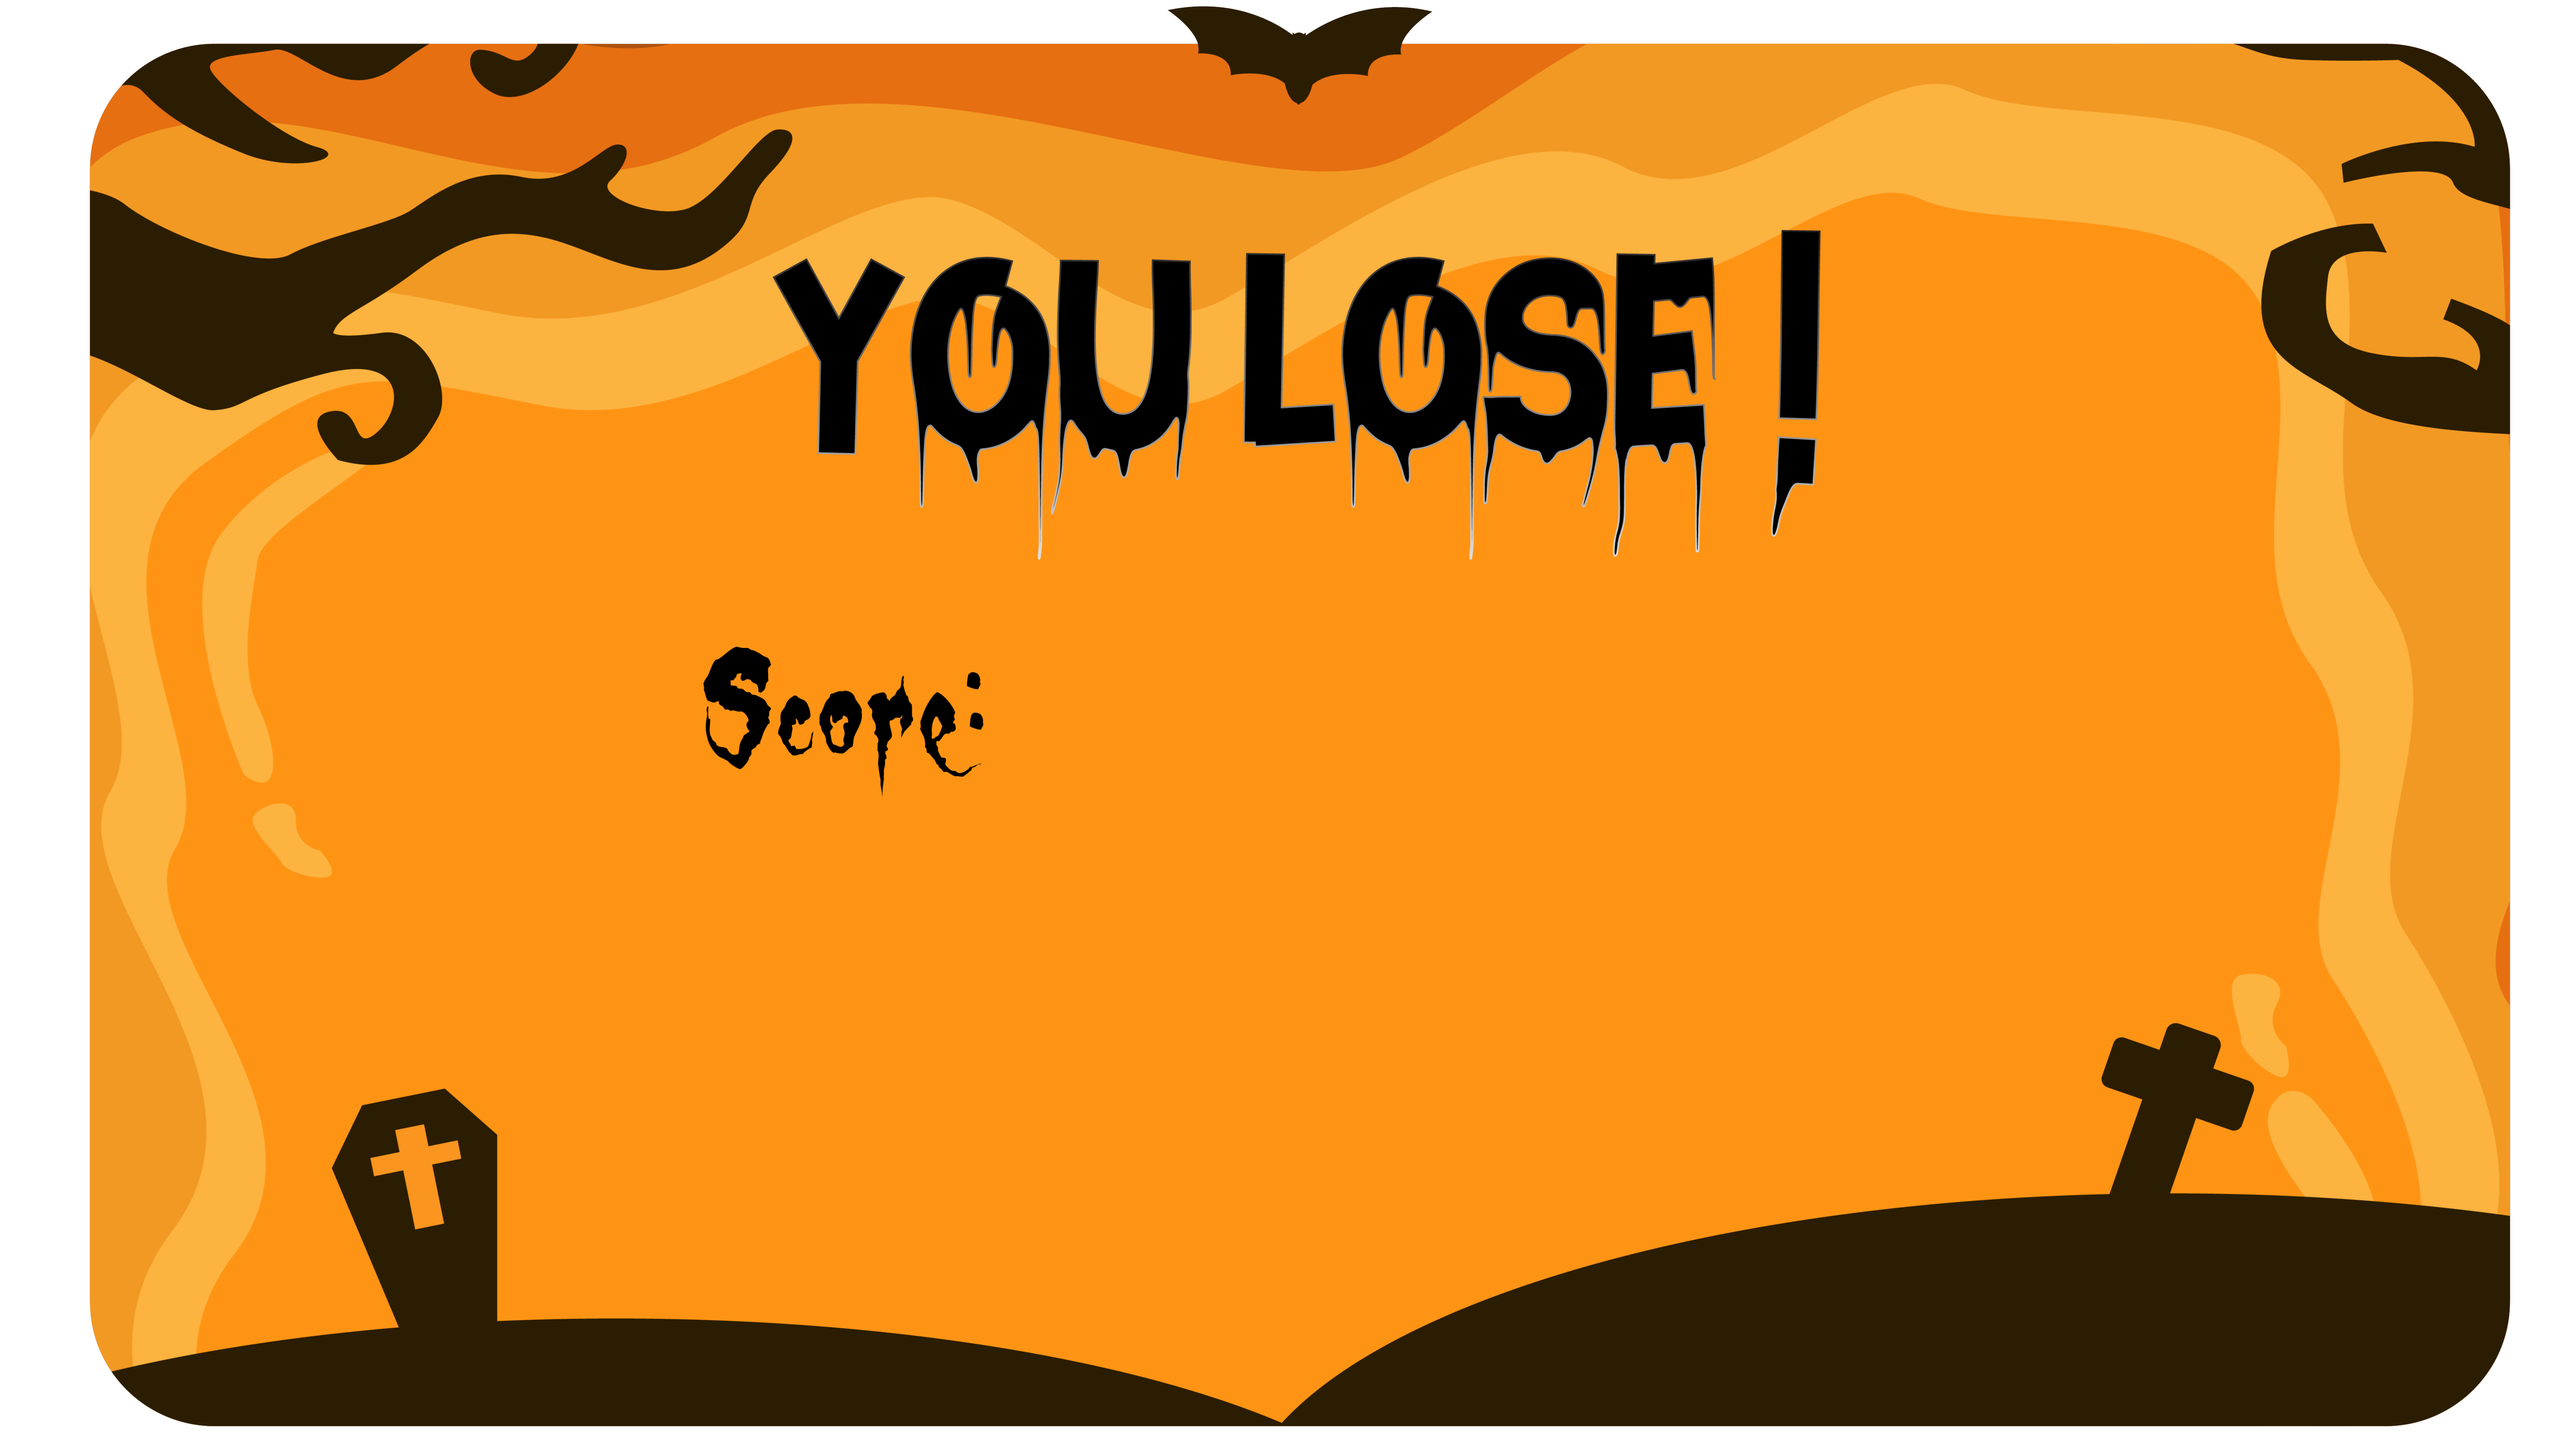
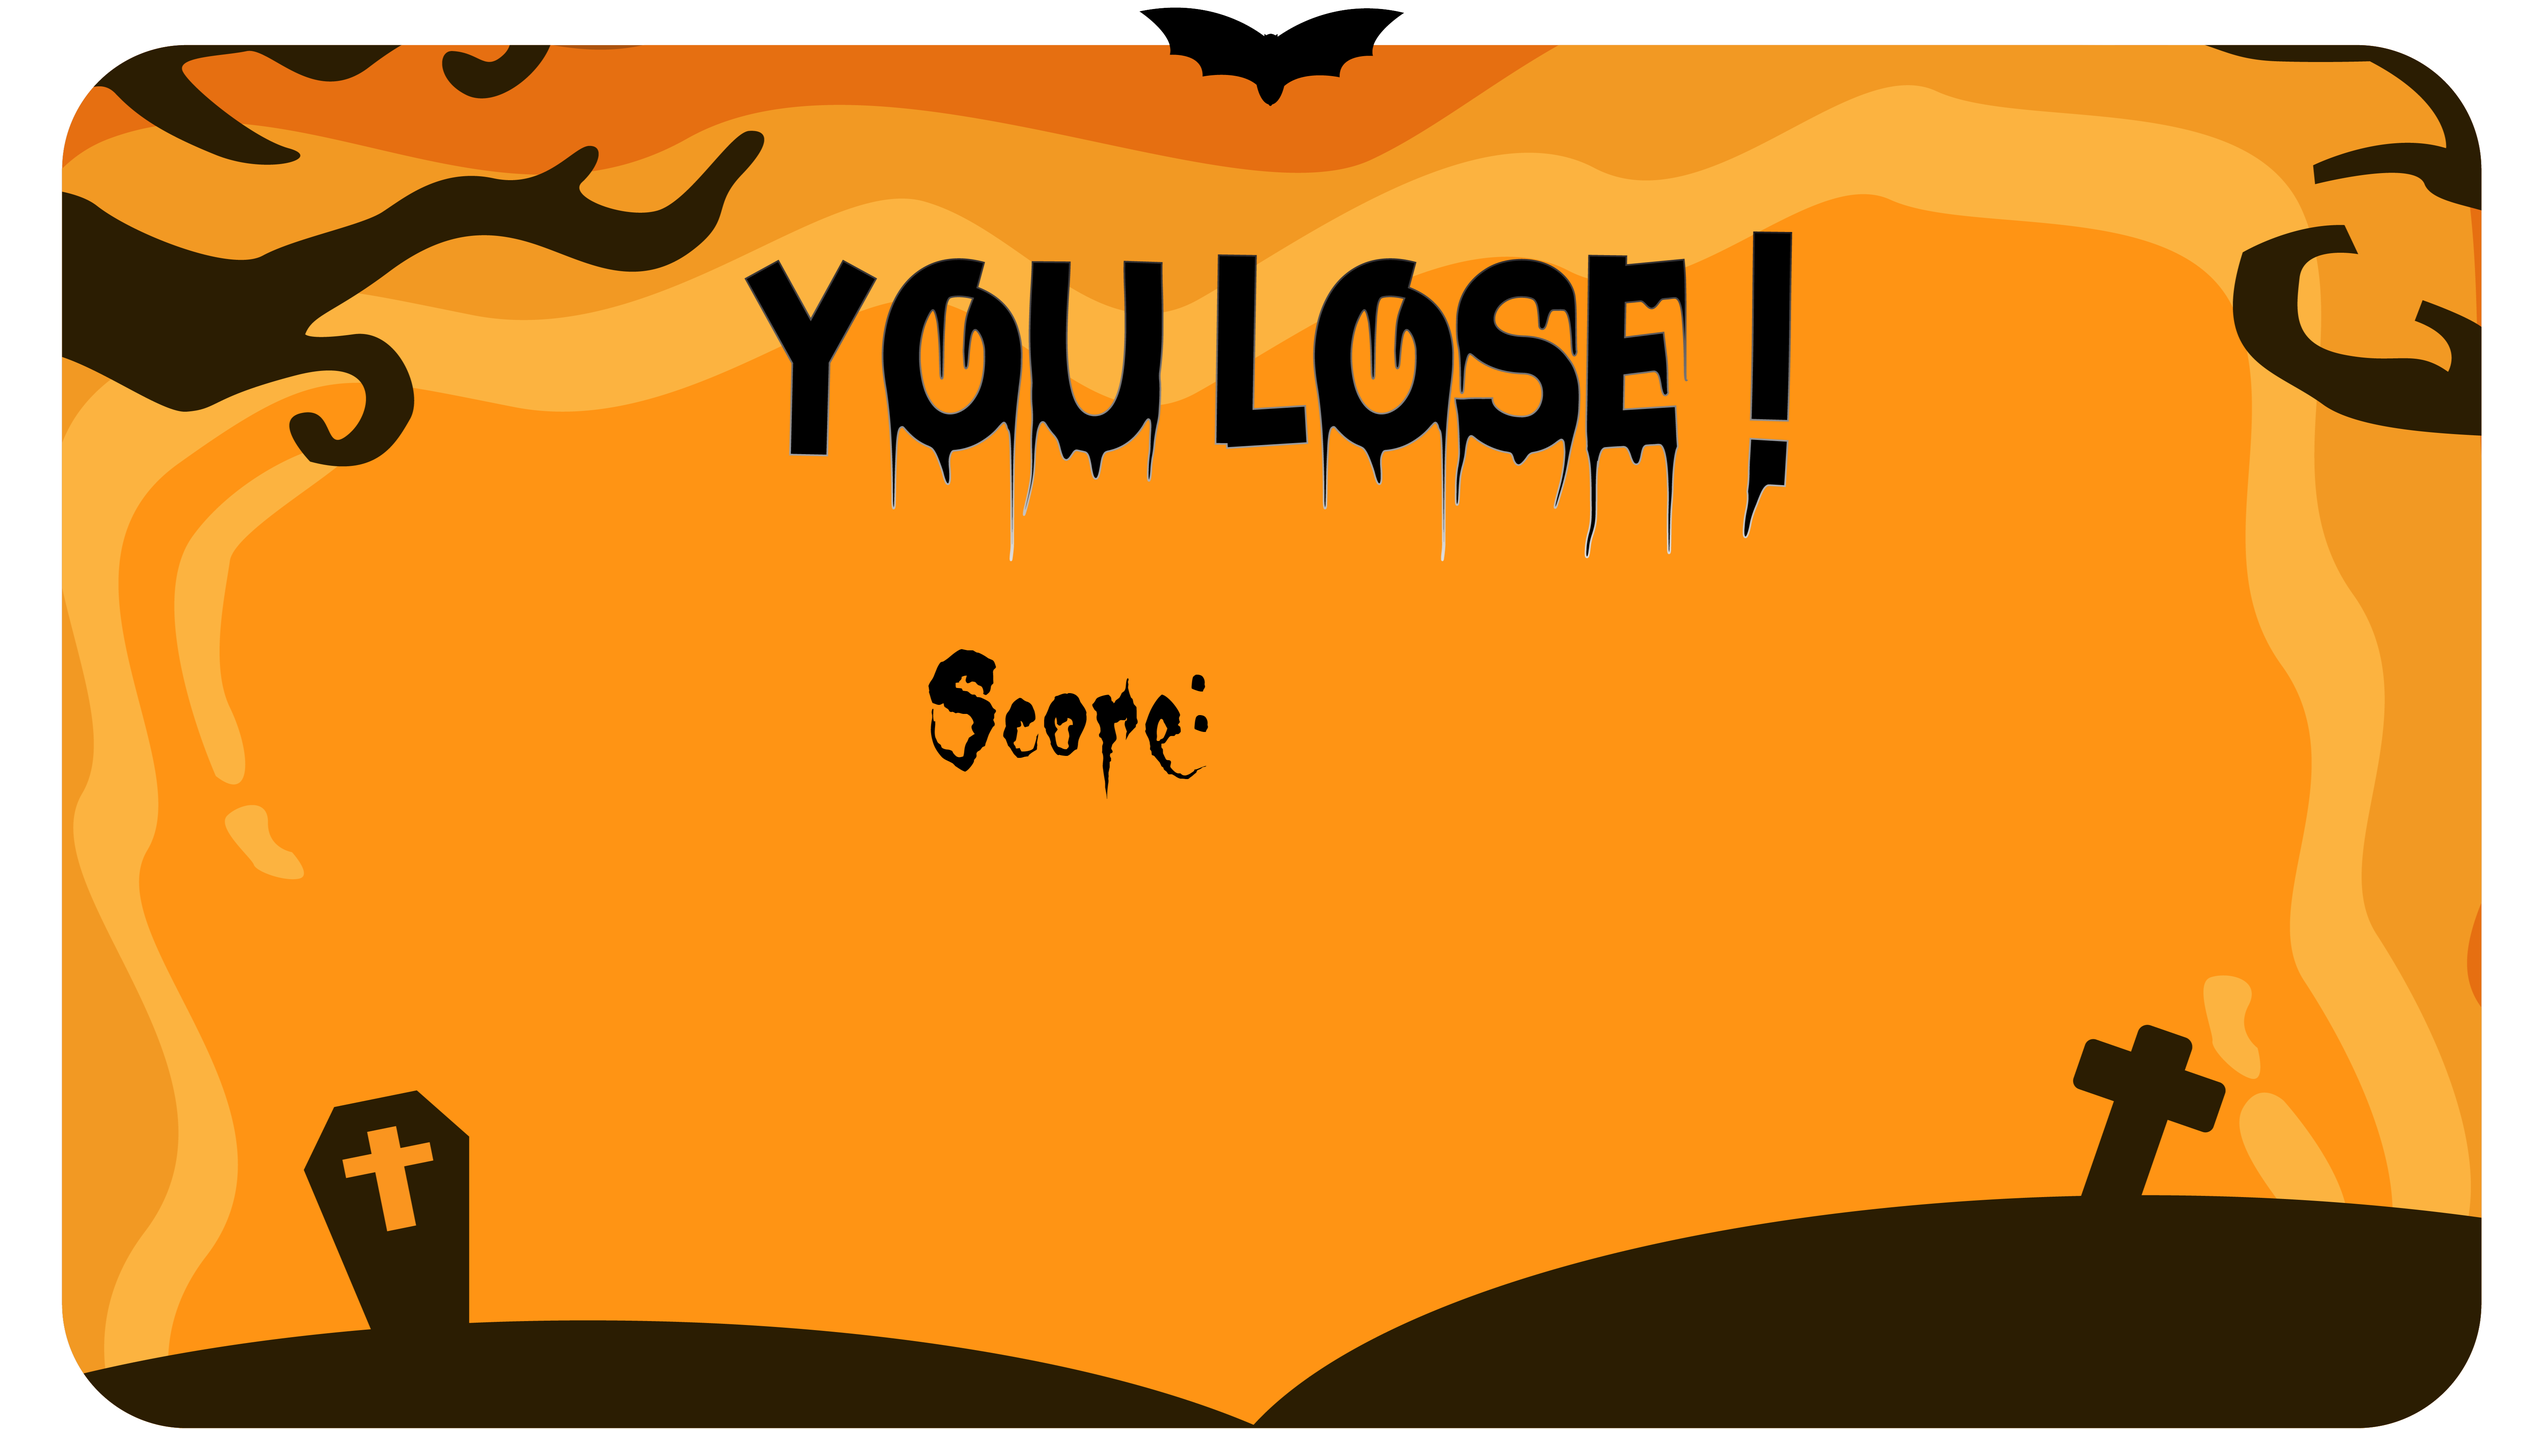
end screen

diff --git a/game.js b/game.js
@@ -8,14 +8,16 @@ import { quantity_ghost } from './quantity_ghost.js';
 import * as land_ from './land.js';
 import * as vatpham_ from './vatpham.js'
 import { music } from './music.js';
-document.addEventListener('DOMContentLoaded', async function () {
+import { end_screen } from './end_screen.js';
+window.loadContent = async function() {
   let landSet = [], ghosts = [], oldghosts = [], vatpham = [], movementSpeed = 0.03, flag = 1, disappearTime, ghostspecialActive = false, speed_j=0.06;
   let timing = 0; let specialTimeout; let ghostfall = false;
   const boostedSpeed = 0.1; // Temporary speed boost
   let isBoosted = false;
   let animationFrameId;
   let isgameover = false;
-  async function start_game() {
+  window.start_game = async function () {
+    //process_score(scene);
     landSet = land_.land_random(scene,-2)
     let inghost = await load_ghost(scene, -2.0, -0.82, -0.2);
     ghosts.push(inghost);
@@ -30,8 +32,10 @@ document.addEventListener('DOMContentLoaded', async function () {
     //vatpham = await vatpham_.load_vatpham_random(scene,landSet);
     
     async function update() {
-      if (isgameover) 
-          return;
+      if (isgameover) {
+        end_screen();
+        return;
+      }
 
       renderer.render(scene, camera);
       if (landSet[landSet.length-1].position.x < 8)
@@ -581,29 +585,13 @@ document.addEventListener('DOMContentLoaded', async function () {
   });
 
   const container = document.querySelector('.background-container');
-  const buttonStart = document.querySelector('.button01, .reload');
+  const buttonStart = document.querySelector('.button01');
   const buttonInstruction = document.querySelector('.button02');
   const closeInstructionButton = document.getElementById('close-instruction');
   const buttonMusic = document.querySelector('.button03');
   const turnoffMusic = document.getElementById('turn-off-music');
-  const buttonHome = document.getElementById('home');
-  const buttonReload = document.getElementById('reload');
 
   buttonStart.addEventListener('click', async function () {
-    console.log("Button Start clicked!");
-    container.parentNode.removeChild(container);
-    try {
-      sound.pause();
-      await start_game();
-      console.log("Game started!");
-    } catch (error) {
-      console.error("Error:", error);
-    }
-    process_score(scene);
-    music(scene, camera);
-  });
-
-  buttonReload.addEventListener('click', async function () {
     console.log("Button Start clicked!");
     container.parentNode.removeChild(container);
     try {
@@ -632,17 +620,11 @@ document.addEventListener('DOMContentLoaded', async function () {
     const imageMusic = document.getElementById('music');
     imageMusic.style.display = 'block';
     sound.pause();
-  })
+  });
   turnoffMusic.addEventListener('click', function(){
     const MusicContainer = document.getElementById('music');
     MusicContainer.style.display = 'none';
     sound.play();
   });
-
-  buttonHome.addEventListener('click', function(){
-    const end_screen = document.getElementById('end_screen');
-    end_screen.style.display = 'none';
-    const Container = document.getElementById('background-container');
-    Container.style.display = 'none';
-  });
-});
+}
+document.addEventListener('DOMContentLoaded', loadContent);

diff --git a/process_score.js b/process_score.js
@@ -8,8 +8,6 @@ export function process_score (scene)
         const context = canvas.getContext('2d');
         canvas.width = 600; //càng to thì càng nhỏ
         canvas.height = 500;
-        // context.fillStyle = '#000000'; // Màu nền (đen)
-        // context.fillRect(0, 0, canvas.width, canvas.height);
         context.font = 'Bold 40px Arial';//px: độ rõ/mờ của chữ
         context.fillStyle = 'white';
         context.fillText('Score: 0', 10, 30);
@@ -35,7 +33,7 @@ export function process_score (scene)
     let score = 0;
     let intervalId = null; // Biến này để lưu ID của setInterval để có thể dừng nó sau này
 
-    const highScoreKey = 'highScore';
+    const highScoreKey = document.getElementById('highScore');
 
     function startGame() {
         score = 0; // Reset điểm khi bắt đầu game
@@ -43,9 +41,10 @@ export function process_score (scene)
         intervalId = setInterval(incrementScore, 1000); // Bắt đầu tính điểm sau mỗi giây
     }
 
-    function endGame() {
+    window.endGame = function() {
         clearInterval(intervalId); // Dừng tính điểm khi game kết thúc
         checkHighScore(); // Kiểm tra điểm cao
+        return score;
     }
 
     function incrementScore() {
@@ -63,28 +62,10 @@ export function process_score (scene)
         const highScore = localStorage.getItem(highScoreKey) || 0;
         if (score > highScore) {
             localStorage.setItem(highScoreKey, score);
-            updateHighScoreDisplay();
         }
+        //highScoreKey.textContent = `High Score: ${highScore}`;
     }
 
-    function updateHighScoreDisplay() {
-        const highScore = localStorage.getItem(highScoreKey) || 0;
-        const highScoreElement = document.getElementById('highScore');
-        highScoreElement.textContent = `High Score: ${highScore}`;
-    }
     startGame();
-    document.addEventListener('DOMContentLoaded', (event) => {
-        createScoreElement();
-        updateHighScoreDisplay();
-        
-    });
-
-    
-
-    // Bắt đầu game khi nhấn vào nút hoặc sự kiện khác
-    //document.querySelector('button01').addEventListener('click', startGame);
-
-    // Kết thúc game khi cần
-    // Ví dụ: Khi người chơi chết hoặc kết thúc level
-    // Đặt hàm endGame() ở đây
+    checkHighScore();
 }

diff --git a/start_screen.html b/start_screen.html
@@ -22,6 +22,8 @@
     <img src="./start_screen/music-03.png" alt="buttonpng"height="130px" width="130px">
   </button>
 
+  <div id="highScore">High Score: 0 </div>
+
   <div id="instruction" class="hidden">
     <img src="./start_screen/instruction-02.png"  alt="your-image" id="imageToShow">  
 
@@ -36,21 +38,6 @@
     </button>
   </div>
 
-  <div id="end_screen" class="hidden">
-    <img src="./start_screen/end_screen-03.png" id="img_end"height = "900px" width="1600px">
-    <button id="home" class="hidden">
-      <img src="./start_screen/home-03.png" alt="buttonpng" height="80" width="80">
-    </button>
-    <button id="reload" class="hidden">
-      <img src="./start_screen/reload-03.png" alt="buttonpng" height="80" width="80">
-    </button>
-  </div>
- 
-
-  <div id="highScore" class="hidden"></div>
-  <!--<div class="game">-->
-    <!--<div id="score">Score: 0</div>-->
-    
   </div> 
   
   <script type="importmap">
@@ -64,6 +51,8 @@
   <script src="./node_modules/cannon/build/cannon.js"></script>
   <script src="https://cdnjs.cloudflare.com/ajax/libs/three.js/r128/three.js"></script>
   <script type="module" src="./game.js"></script>
+  <script type="module" src="./process_score.js"></script>
+  <script type="module" src="./end_screen.js"></script>
  
 </body>
 <style>
@@ -144,13 +133,14 @@
     opacity: 0; /* Hide overlay on container hidden class */
     display: none;
    }
-   .score {
+   #highScore {
   position: absolute;
-  color: white;
-  font-size: 3em;
+  color: Black;
+  font-size: 2em;
   font-weight: bold;
-  top: 30px;
-  right: 30px;
+  bottom: 30px;
+  left: 500px;
+  display: none;
 }
 
 #instruction {
@@ -191,37 +181,6 @@
       background-color: inherit;
       left: 910px;
       top: 200px;
-    }
-  
-  
-  #end_screen{
-    position: fixed;
-    top: 0;
-    left: 0;
-    justify-content: center; 
-    align-items: center;
-    display: none;
-  } 
-    #img_end{
-      width: 75%;
-      height: 75%;
-      object-fit: cover; 
-      margin: 0; 
-    } 
-
-    #end_screen button {
-      position: fixed;
-      cursor: pointer;
-      border: none;
-      background-color: inherit;
-    }
-    #reload{
-      right: 450px;
-      top: 400px;
-    }
-    #home{
-      left: 450px;
-      top: 400px;
     }
 
 </style>

diff --git a/end_screen.js b/end_screen.js
@@ -1,0 +1,57 @@
+export function end_screen(){
+    var score = window.endGame();
+
+    var endImage = document.createElement('img');
+    endImage.src = './start_screen/end_screen-03.png';
+    endImage.style.position = 'absolute';
+    endImage.style.top = '50%';
+    endImage.style.left = '50%';
+    endImage.style.transform = 'translate(-50%, -50%)';
+    endImage.style.width = '700px';
+    endImage.style.height = 'auto';
+    document.body.appendChild(endImage);
+
+    var reload = document.createElement('img');
+    reload.src = './start_screen/reload-03.png'; 
+    reload.style.position = 'absolute';
+    reload.style.top = '65%';
+    reload.style.left = '45%';
+    reload.style.transform = 'translate(-50%, -50%)';
+    reload.style.width = '60px';
+    reload.style.height = 'auto';
+    reload.style.cursor = 'pointer';
+    document.body.appendChild(reload);
+
+    var home = document.createElement('img');
+    home.src = './start_screen/home-03.png'; 
+    home.style.position = 'absolute';
+    home.style.top = '65%';
+    home.style.right = '40%';
+    home.style.transform = 'translate(-50%, -50%)';
+    home.style.width = '60px';
+    home.style.height = 'auto';
+    home.style.cursor = 'pointer';
+    document.body.appendChild(home);
+
+    var textElement = document.createElement('div');
+    textElement.style.position = 'absolute';
+    textElement.textContent = `${score}`;
+    textElement.style.top = '45%'; 
+    textElement.style.left = '55%';
+    textElement.style.color = '#000000';
+    textElement.style.fontSize = '40px'; 
+    textElement.style.fontFamily = 'Bookman, fantasy';
+    document.body.appendChild(textElement);
+
+    home.addEventListener('click', () => {
+        location.reload(); 
+    });
+
+    reload.addEventListener('click', () => {
+        endImage.remove();
+        home.remove();
+        reload.remove();
+        textElement.remove();
+        window.start_game();
+    });
+}

diff --git a/quantity_ghost.js b/quantity_ghost.js
@@ -8,8 +8,6 @@ export function quantity_ghost(scene)
         const context = canvas.getContext('2d');
         canvas.width = 600; //càng to thì càng nhỏ
         canvas.height = 500;
-        // context.fillStyle = '#000000'; // Màu nền (đen)
-        // context.fillRect(0, 0, canvas.width, canvas.height);
         context.font = 'Bold 40px Arial';//px: độ rõ/mờ của chữ
         context.fillStyle = 'white';
     
